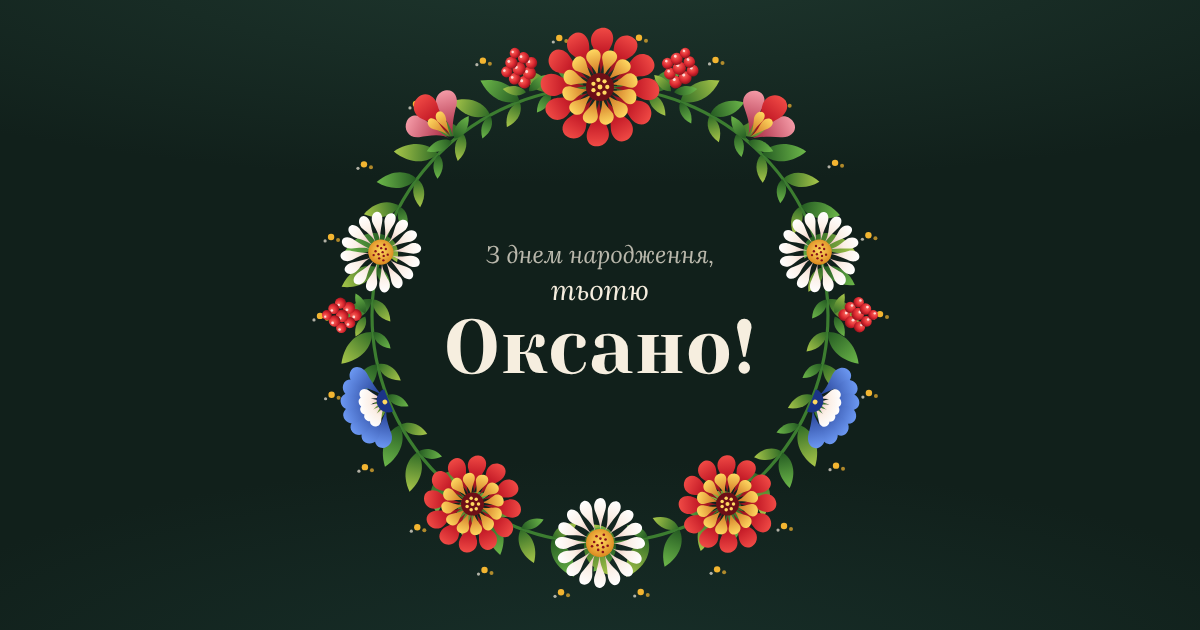
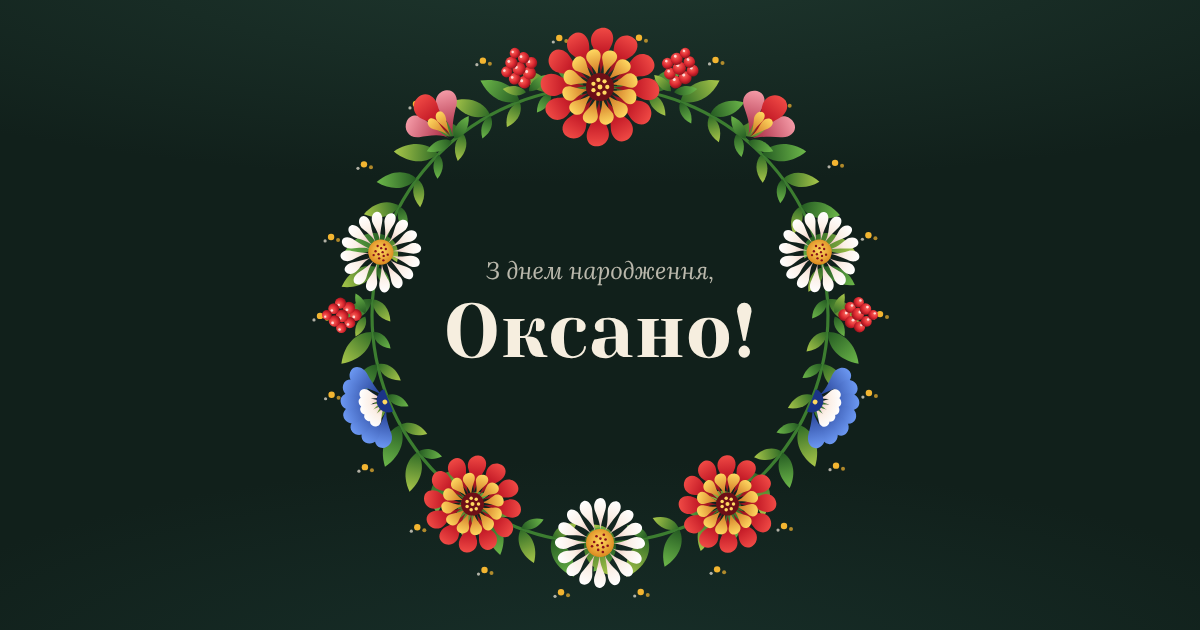
Текст на «ти», без «тьотю» в заголовку
Claude-Session: https://claude.ai/code/session_01WMgRvRMKM5FEfr3Xp7yRSh

Changed region(s): [[0.37, 0.3921, 0.6475, 0.6032]]

diff --git a/index.html b/index.html
@@ -3,11 +3,11 @@
 <head>
 <meta charset="utf-8">
 <meta name="viewport" content="width=device-width, initial-scale=1, viewport-fit=cover">
-<title>З днем народження, тьотю Оксано!</title>
-<meta name="description" content="Святкова листівка для тьоті Оксани від Ярослава">
+<title>З днем народження, Оксано!</title>
+<meta name="description" content="Святкова листівка для Оксани від Ярослава">
 <meta property="og:type" content="website">
-<meta property="og:title" content="З днем народження, тьотю Оксано!">
-<meta property="og:description" content="Відкрийте — тут листівка для Вас">
+<meta property="og:title" content="З днем народження, Оксано!">
+<meta property="og:description" content="Відкрий — тут листівка для тебе">
 <meta property="og:image" content="https://yarik547.github.io/oksana-birthday/og.png">
 <meta property="og:image:width" content="1200">
 <meta property="og:image:height" content="630">
@@ -202,12 +202,11 @@
 
       <div class="center">
         <div class="cover">
-          <p>Для тьоті Оксани</p>
+          <p>Для Оксани</p>
           <button class="open-btn" id="open" type="button">Відкрити листівку</button>
         </div>
         <h1 class="greet">
           <span class="l1">З днем народження,</span>
-          <span class="l2">тьотю</span>
           <span class="l3">Оксано!</span>
         </h1>
       </div>
@@ -220,20 +219,20 @@
   </section>
 
   <article class="letter" id="letter">
-    <p>Сьогодні Ваше свято, і хочеться сказати головне: з Вами завжди тепло. Поруч із Вами легко сміятися, легко говорити, і завжди відчуваєш, що тут на тебе чекають.</p>
-    <p>Бажаю Вам міцного здоров’я — такого, щоб сил вистачало і на справи, і на мрії, і на маленькі радощі без жодного приводу. Мирного неба, спокою в душі й затишку в домі.</p>
+    <p>Сьогодні твоє свято, і хочеться сказати головне: з тобою завжди тепло. Поруч із тобою легко сміятися й говорити про все, і завжди почуваєшся як удома.</p>
+    <p>Бажаю тобі міцного здоров’я — такого, щоб сил вистачало і на справи, і на мрії, і на маленькі радощі без жодного приводу. Мирного неба, спокою в душі й затишку в домі.</p>
     <p>Хай цей рік буде щедрим на добрі новини, теплі зустрічі й людей, які поруч не з обов’язку, а від щирого серця. Хай усе задумане складається легко, а все, що тривожить, — відпускає.</p>
-    <p>Дякую Вам за доброту, за турботу і за те, що Ви в нас є.</p>
+    <p>Дякую тобі за доброту, за турботу і за те, що ти в нас є. Ти для мене дуже рідна людина.</p>
 
     <svg class="sprig" viewBox="-60 -20 120 40" aria-hidden="true" id="sprig"></svg>
 
     <section class="candles" aria-labelledby="candles-title">
-      <h2 id="candles-title">Задуйте свічки</h2>
-      <p class="hint" id="hint" aria-live="polite">Торкніться кожного вогника й загадайте бажання</p>
+      <h2 id="candles-title">Задуй свічки</h2>
+      <p class="hint" id="hint" aria-live="polite">Торкнись кожного вогника й загадай бажання</p>
       <div class="row" id="row"></div>
     </section>
 
-    <p class="sign">З любов’ю,<span>Ярослав</span></p>
+    <p class="sign">З любов’ю, твій племінник<span>Ярослав</span></p>
   </article>
 </main>
 

diff --git a/README.md b/README.md
@@ -1,4 +1,4 @@
-# З днем народження, тьотю Оксано!
+# З днем народження, Оксано!
 
 Святкова листівка-сайт у стилі петриківського розпису.
 
